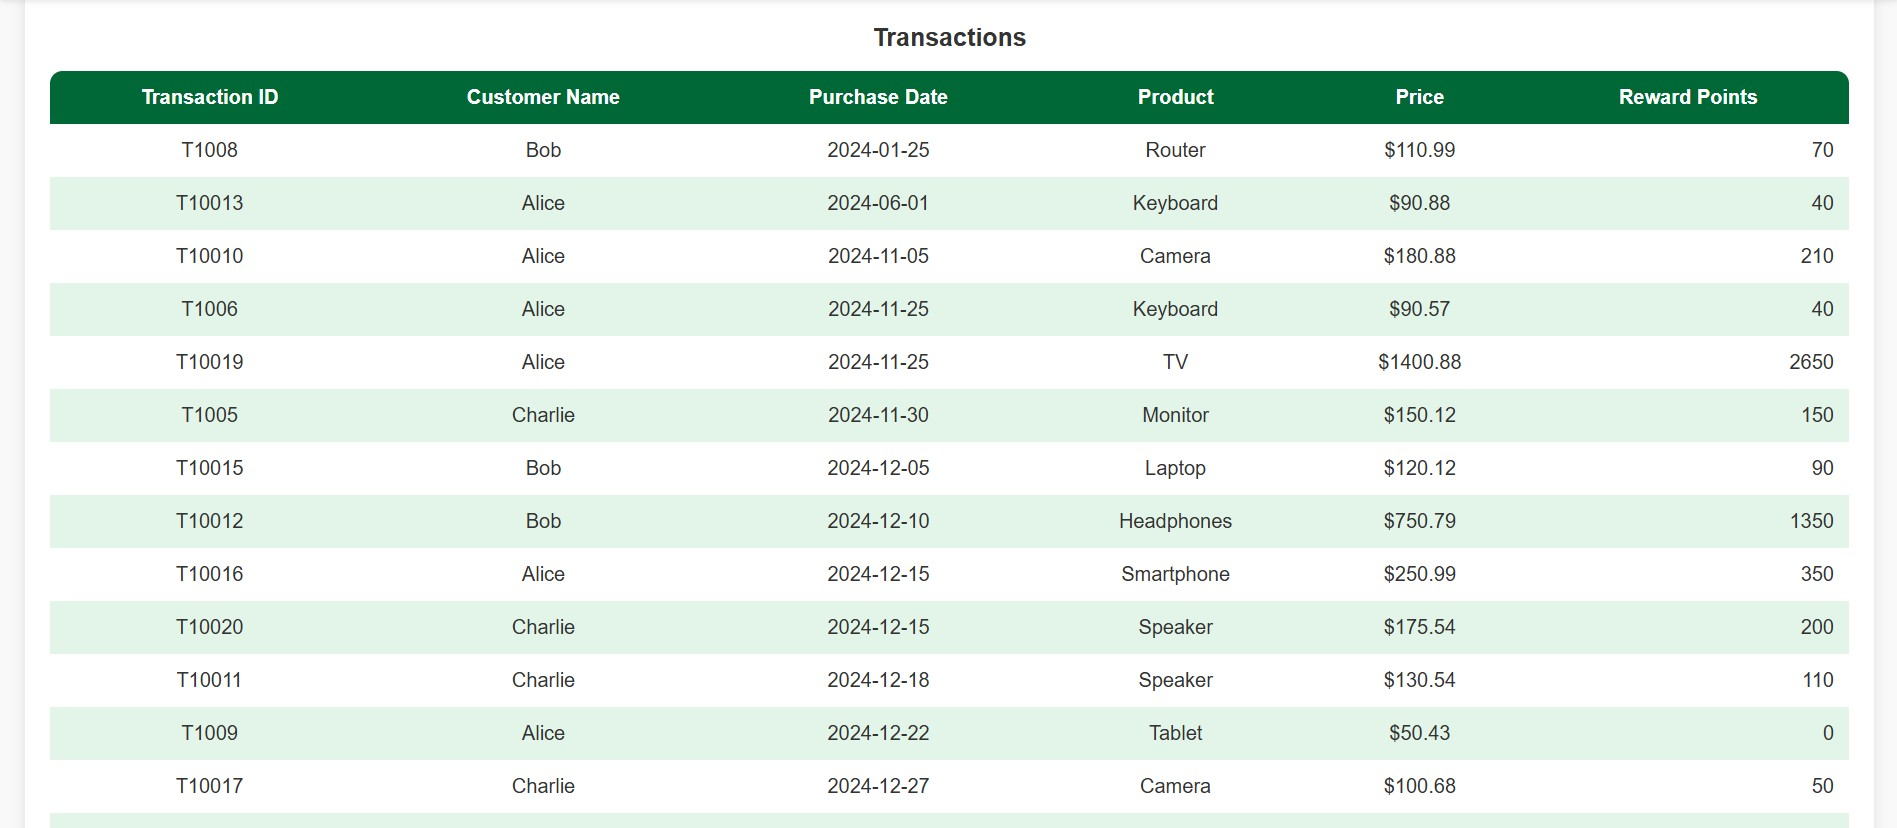
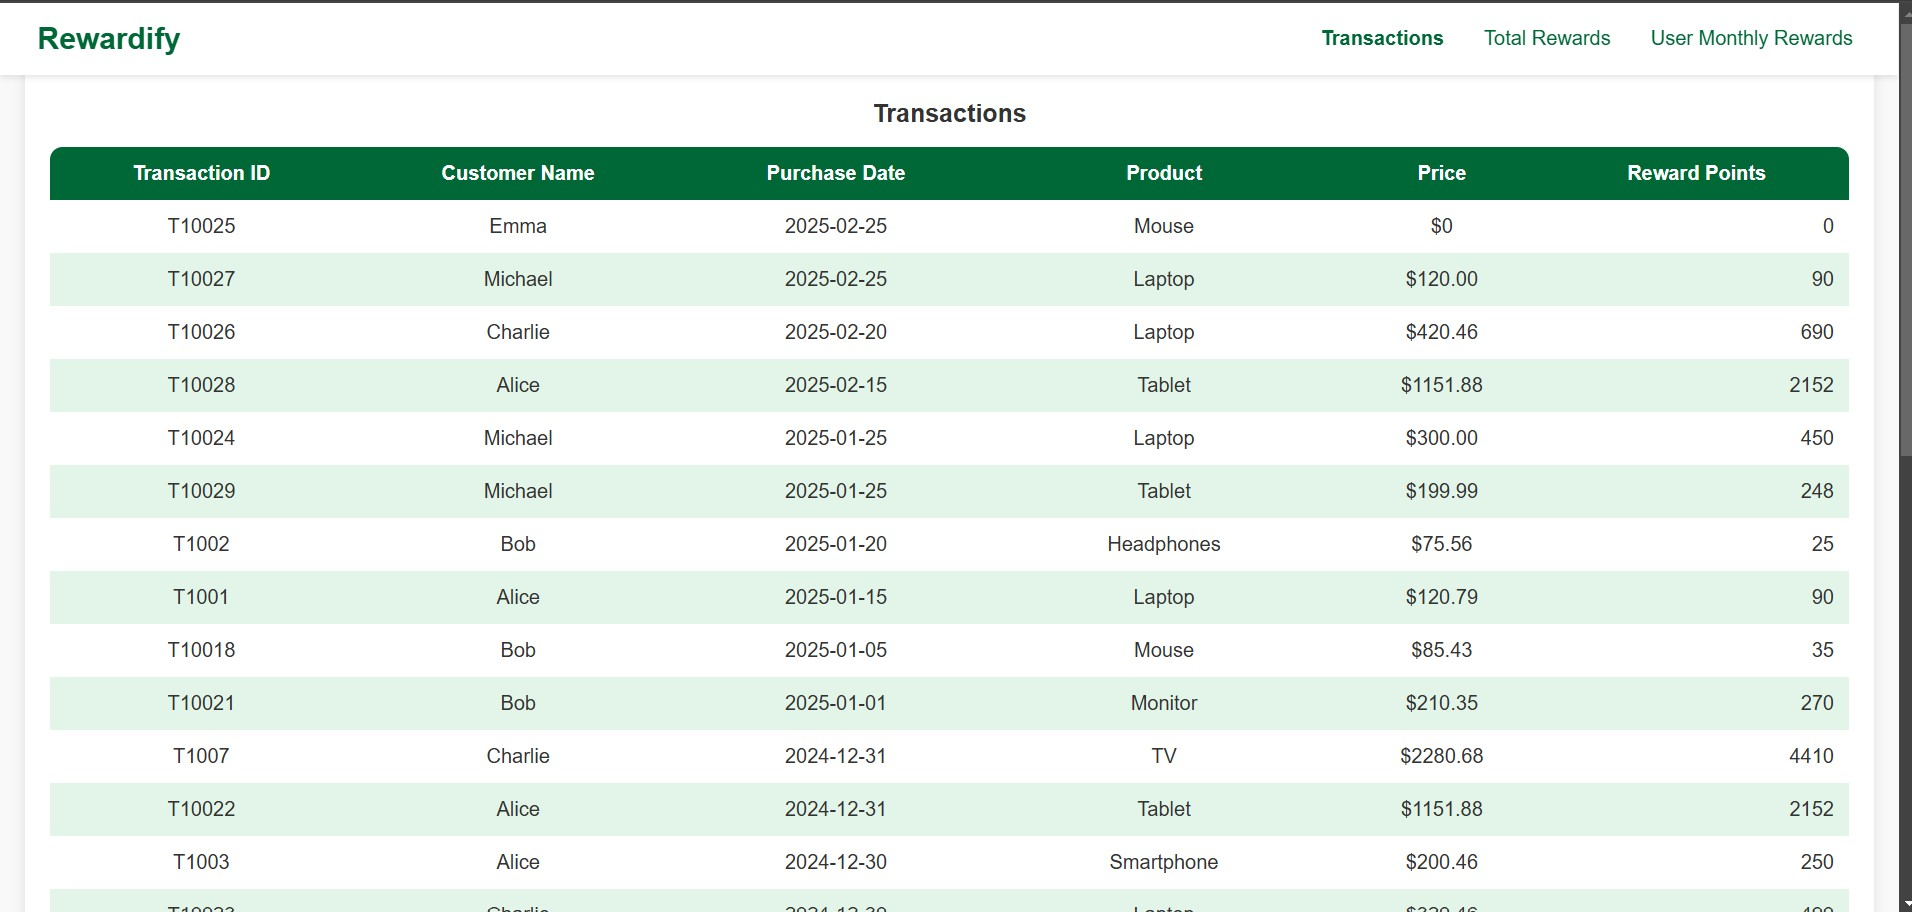
worked on review comments

diff --git a/src/utils/Services.js b/src/utils/Services.js
@@ -10,8 +10,9 @@ export const fetchTransactions = async () => {
       throw new Error(`HTTP error! Status: ${response.status}`);
     }
     const data = await response.json();
-    const sortedTransactions = data.TRANSACTION_DATA.sort(
-      (a, b) => new Date(a.purchaseDate) - new Date(b.purchaseDate)
+    const clonedData = JSON.parse(JSON.stringify(data.TRANSACTION_DATA));
+    const sortedTransactions = clonedData.sort(
+      (a, b) => new Date(b.purchaseDate) - new Date(a.purchaseDate)
     );
     return sortedTransactions;
   } catch (err) {

diff --git a/README.md b/README.md
@@ -37,7 +37,7 @@ The App component serves as the root component of the application. It manages th
 
  - Uses a logging utility (logger) to track data fetching success and errors.
 
-<img src="./public/media/App.jpg"/>
+<img src="./public/media/Transactions.jpg"/>
 
 # Header Component
 
@@ -83,7 +83,7 @@ price | string or number | The price of the purchased product.
 
 aggregateMonthlyRewards(transactions) - Groups transactions by customerName, month, and year. Uses calculatePoints(price) to determine reward points per transaction. Sums the reward points for each unique customer-month-year combination.
 
-<img src="./public/media/MonhtlyRewards.jpg"/>
+<img src="./public/media/MonthlyRewards.jpg"/>
 
 If transactions prop is empty then it will show below error.
 
